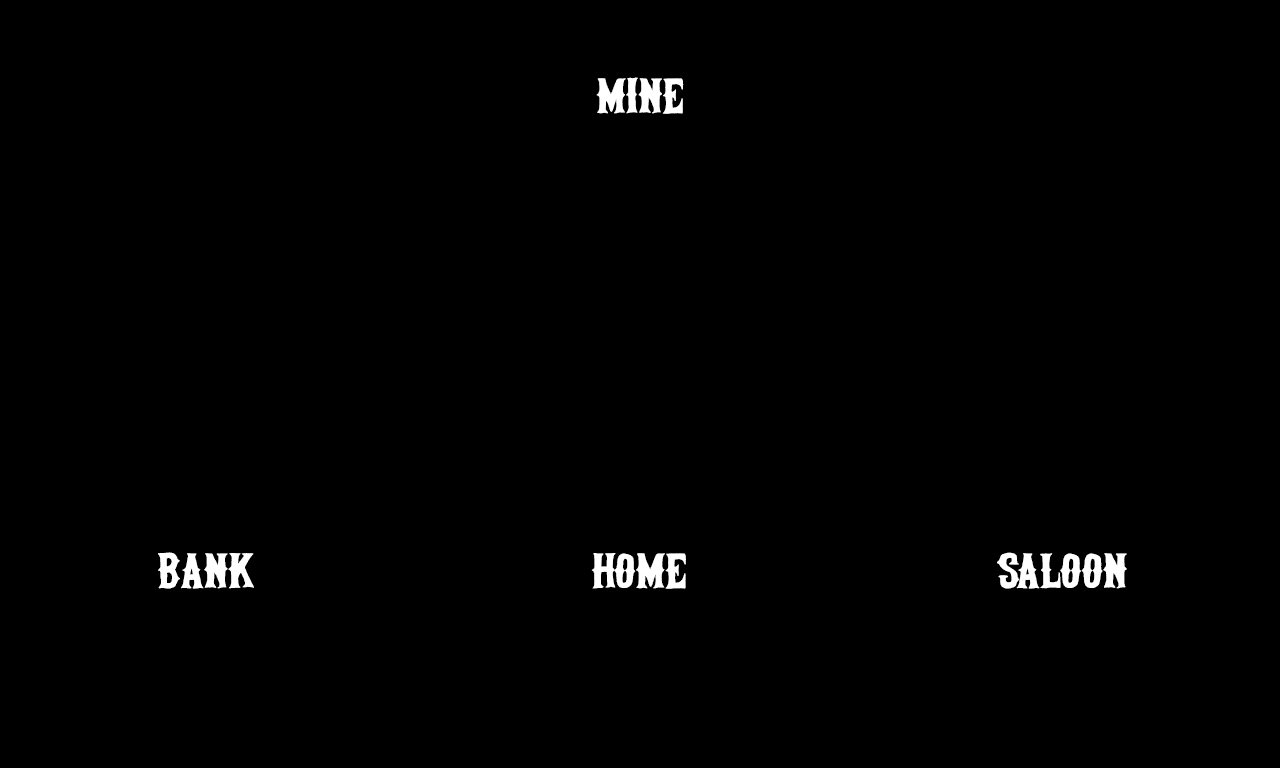
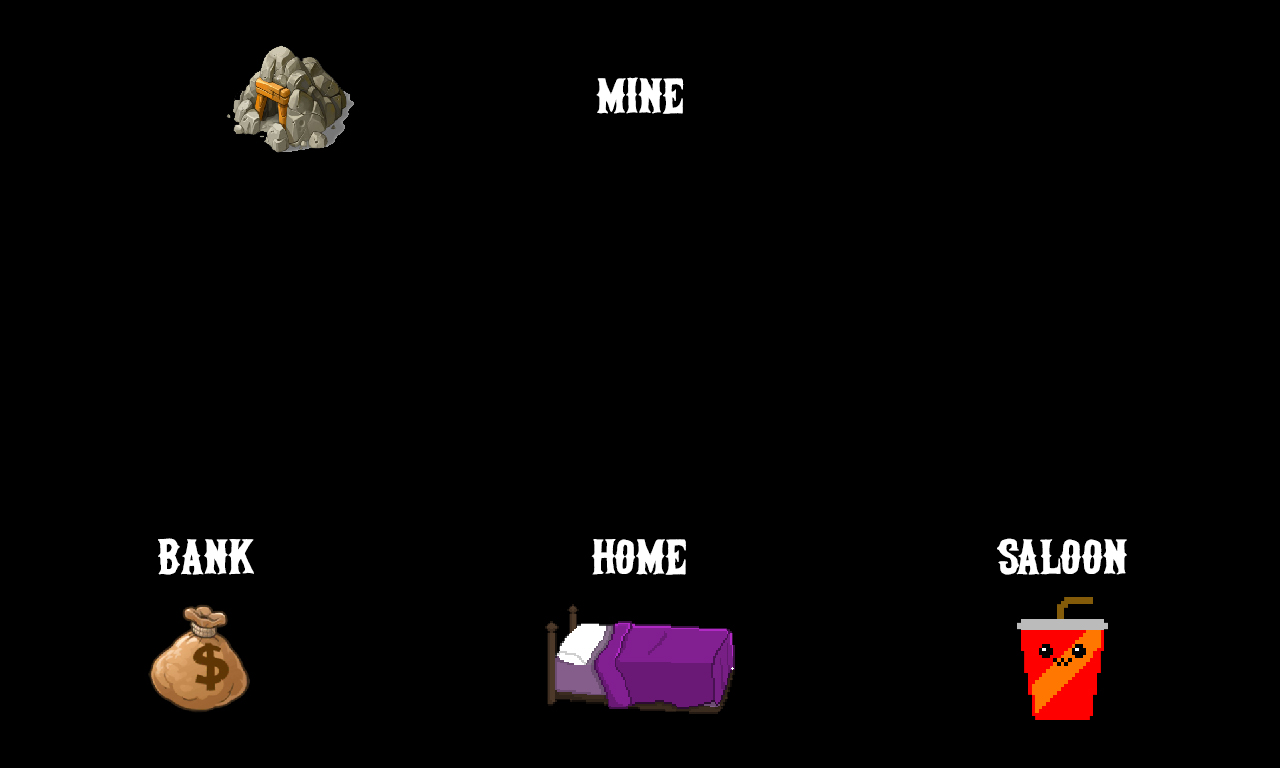
Patch 4.7 - Changed target values - Added a* - Changed background image

diff --git a/SDL_Decisions/src/ScenePlanning.cpp b/SDL_Decisions/src/ScenePlanning.cpp
@@ -19,7 +19,7 @@ ScenePlanning::ScenePlanning() {
 	Vector2D rand_cell(-1, -1);
 	while (!isValidCell(rand_cell))
 		rand_cell = Vector2D((float)(rand() % num_cell_x), (float)(rand() % num_cell_y));
-	agents[0]->setPosition(cell2pix(rand_cell));
+	agents[0]->setPosition(cell2pix(Vector2D(8, 3)));
 	start = agents[0]->getPosition();
 
 	// Set the coin in a random cell (but at least 3 cells far from the agent)
@@ -28,18 +28,10 @@ ScenePlanning::ScenePlanning() {
 		coinPosition = Vector2D((float)(rand() % num_cell_x), (float)(rand() % num_cell_y));
 
 	// PathFollowing next Target
-	previousPosition = Vector2D(593, 145);
+	previousPosition = Vector2D(272, 112);
 	currentTarget = Vector2D(0, 0);
 	currentTargetIndex = -1;
 	agents[0]->SwitchState(agents[0]->mineState);
-
-	/* A* Algorithm
-	agents[0]->vector_costs.clear();
-	agents[0]->frontierCount.clear();
-	astar = agents[0]->AStar(pix2cell(start), coinPosition, graph, true);
-	for (unsigned int i = 0; i < astar.size(); i++) {
-		path.points.push_back(cell2pix(astar[i]));
-	}*/
 }
 
 ScenePlanning::~ScenePlanning() {
@@ -66,7 +58,9 @@ void ScenePlanning::update(float dtime, SDL_Event *event) {
 	}
 
 	if (currentTarget == Vector2D(0, 0) || agents[0]->objectivePosition != previousPosition) {
-			path.points.push_back(agents[0]->objectivePosition);
+			astar = agents[0]->AStar(pix2cell(agents[0]->getPosition()), pix2cell(agents[0]->objectivePosition), graph);
+			for (unsigned int i = 0; i < astar.size(); i++) 
+				path.points.push_back(cell2pix(astar[i]));
 			previousPosition = agents[0]->objectivePosition;
 	}
 
@@ -94,18 +88,6 @@ void ScenePlanning::update(float dtime, SDL_Event *event) {
 						
 						while ((!isValidCell(coinPosition)) || (Vector2D::Distance(coinPosition, pix2cell(agents[0]->getPosition())) < 3))
 							coinPosition = Vector2D((float)(rand() % num_cell_x), (float)(rand() % num_cell_y));
-
-						/*agents[0]->setPosition(path.points.back());
-						start = agents[0]->getPosition();
-						path.points.clear();*/
-
-						// A* Algorithm
-						/*agents[0]->vector_costs.clear();
-						agents[0]->frontierCount.clear();
-						astar = agents[0]->AStar(pix2cell(start), coinPosition, graph, true);
-						for (unsigned int i = 0; i < astar.size(); i++) {
-							path.points.push_back(cell2pix(astar[i]));
-						}*/
 					}
 				}
 				else {

diff --git a/SDL_Decisions/src/Agent.cpp b/SDL_Decisions/src/Agent.cpp
@@ -20,7 +20,7 @@ Agent::Agent() : sprite_texture(0),
 	homeState = new HomeState;
 	mineState = new MineState;
 	saloonState = new SaloonState;
-	objectivePosition = Vector2D(593, 145);
+	objectivePosition = Vector2D(272, 112);
 	pockets = 0;
 	wealth = 0;
 	fatigue = 0;
@@ -210,7 +210,7 @@ vector<Vector2D> Agent::AStar(Vector2D start, Vector2D goal, Graph graph) {
 
 			// If next in cost_so_far 
 			if (cost_so_far.find(next) != cost_so_far.end()) {
-				if (new_cost >= cost_so_far[next])  // if 'new_cost < cost_so_far[next]' visited = false perque el volem afegir, if 'new_cost > cost_so_far[next]' nol volem per tant visited = false
+				if (new_cost > cost_so_far[next])  // if 'new_cost < cost_so_far[next]' visited = false perque el volem afegir, if 'new_cost > cost_so_far[next]' nol volem per tant visited = false
 					visited = true;
 			}
 			// If next not in cost_so_far

diff --git a/SDL_Decisions/src/State.cpp b/SDL_Decisions/src/State.cpp
@@ -1,10 +1,10 @@
 #include "State.h"
 
 State::State() {
-	bankPosition = Vector2D(209, 656);
-	homePosition = Vector2D(656, 656);
-	minePosition = Vector2D(656, 145);
-	saloonPosition = Vector2D(1042, 656);
+	bankPosition = Vector2D(208, 624);
+	homePosition = Vector2D(624, 624);
+	minePosition = Vector2D(272, 112);
+	saloonPosition = Vector2D(1040, 624);
 }
 
 State::~State() {
